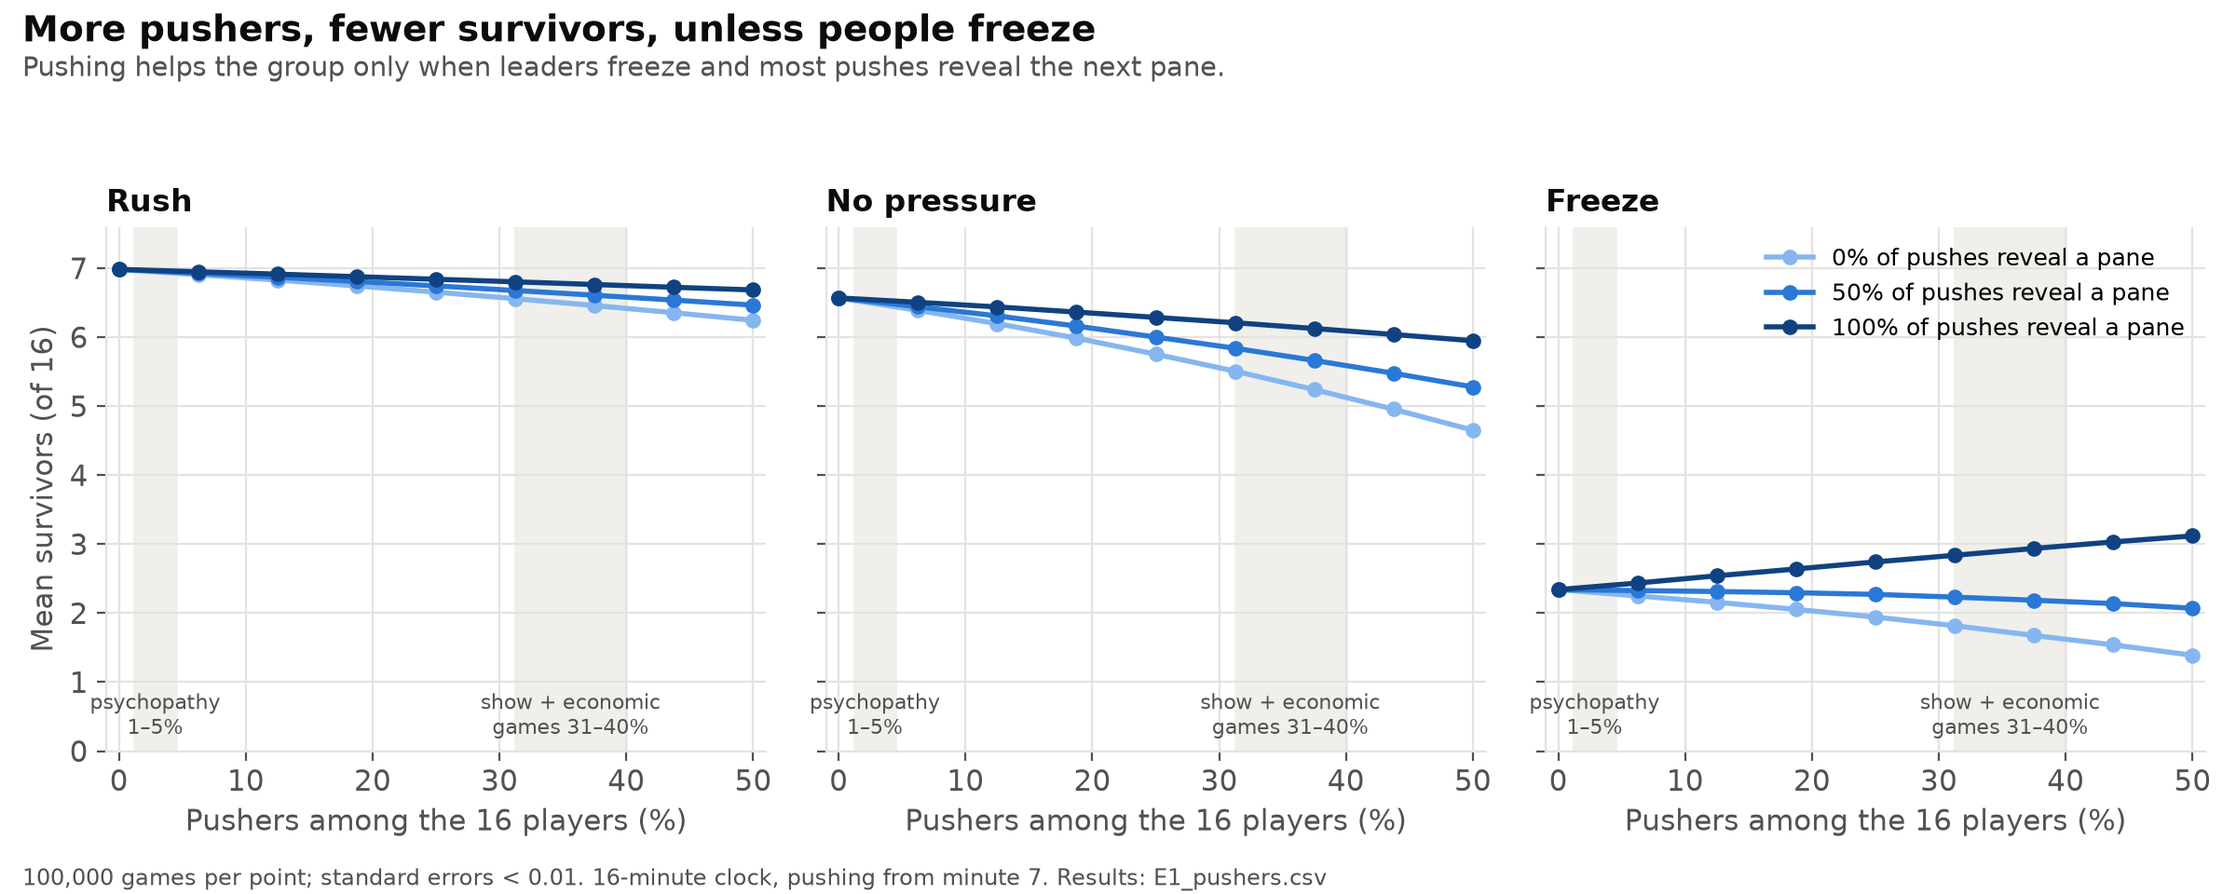
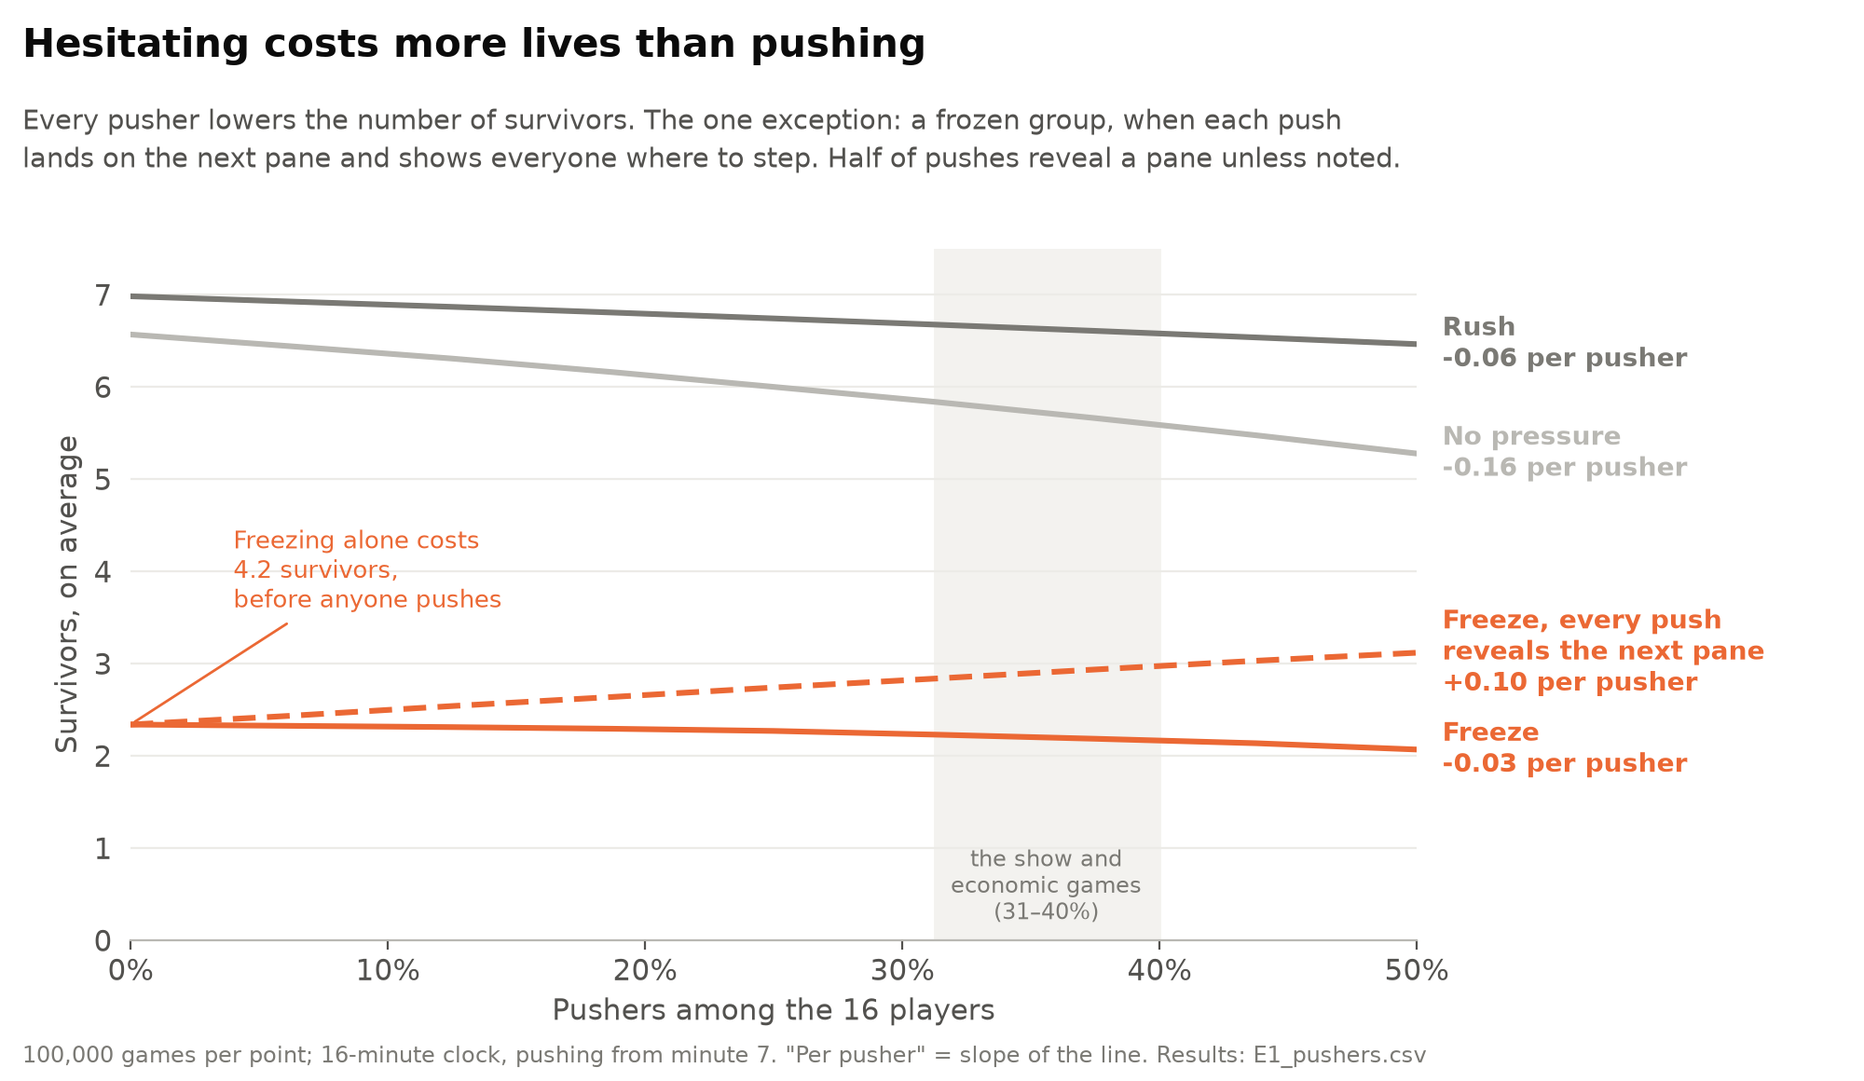
Figures restyled (Storytelling with Data): takeaway titles, gray context, direct labels, annotations; new fig 6 survivor distribution

diff --git a/src/glass_bridge/figures.py b/src/glass_bridge/figures.py
@@ -1,6 +1,10 @@
 """Article figures from the saved sweep results (results/*.csv). Run:
 
     python -m glass_bridge.figures            # writes figures/*.png
+
+Style follows *Storytelling with Data* (Knaflic): the title states the takeaway, context is
+gray, one accent color carries the story, lines are labeled directly instead of with legends,
+and the key point is annotated on the chart.
 """
 
 from __future__ import annotations
@@ -17,164 +21,272 @@ from matplotlib.colors import LinearSegmentedColormap, TwoSlopeNorm
 
 from . import exact
 
-# Reference palette (light mode; Medium pages are white)
-SURFACE, INK, INK_2, GRID = "#ffffff", "#0b0b0b", "#52514e", "#e4e3df"
-BLUE, ORANGE, AQUA, RED, NEUTRAL = "#2a78d6", "#eb6834", "#1baf7a", "#e34948", "#f0efec"
-BLUE_RAMP = {0.0: "#86b6ef", 0.5: "#2a78d6", 1.0: "#104281"}   # ordinal: pane contact 0 / 50 / 100%
-PRESSURE = {-1.5: ("Rush", AQUA), 0.0: ("No pressure", BLUE), 1.5: ("Freeze", ORANGE)}
+# Reference palette, light mode (Medium pages are white). Gray = context; orange = hesitation
+# (the story); blue = what helps.
+SURFACE, INK, INK_2, GRID = "#ffffff", "#0b0b0b", "#52514e", "#ecebe7"
+GRAY, GRAY_LIGHT, BAND = "#7a7974", "#b9b8b3", "#f3f2ef"
+ORANGE, BLUE, RED, NEUTRAL = "#eb6834", "#2a78d6", "#e34948", "#f0efec"
+FREEZE, NONE, RUSH = 1.5, 0.0, -1.5
+PRESSURE = {RUSH: "Rush", NONE: "No pressure", FREEZE: "Freeze"}
 N_PLAYERS = 16
+SHOW_CLOCK = 960.0
 
 plt.rcParams.update({
     "figure.facecolor": SURFACE, "axes.facecolor": SURFACE, "savefig.facecolor": SURFACE,
-    "font.size": 11, "axes.edgecolor": GRID, "axes.labelcolor": INK_2, "axes.titlesize": 12,
+    "font.size": 11, "axes.edgecolor": GRAY_LIGHT, "axes.labelcolor": INK_2, "axes.titlesize": 12,
     "axes.titleweight": "bold", "axes.titlecolor": INK, "xtick.color": INK_2, "ytick.color": INK_2,
-    "axes.grid": True, "grid.color": GRID, "grid.linewidth": 0.8, "axes.axisbelow": True,
-    "axes.spines.top": False, "axes.spines.right": False, "legend.frameon": False,
-    "lines.linewidth": 2.0, "lines.markersize": 5,
+    "axes.grid": True, "axes.grid.axis": "y", "grid.color": GRID, "grid.linewidth": 0.8,
+    "axes.axisbelow": True, "axes.spines.top": False, "axes.spines.right": False,
+    "axes.spines.left": False, "ytick.left": False, "legend.frameon": False, "lines.linewidth": 2.2,
 })
 
+
+# ---- Data -----------------------------------------------------------------------------------
 
 def load(name: str, results: Path) -> list[dict]:
     with open(results / f"{name}.csv", encoding="utf-8") as f:
         return [{k: (v if k == "delay" else float(v)) for k, v in row.items()} for row in csv.DictReader(f)]
 
 
-def pick(rows: list[dict], **where) -> list[dict]:
-    return [r for r in rows if all(r[k] == v for k, v in where.items())]
-
-
 def one(rows: list[dict], **where) -> dict:
-    (row,) = pick(rows, **where)
+    (row,) = [r for r in rows if all(r[k] == v for k, v in where.items())]
     return row
 
 
-def titled(fig, title: str, subtitle: str) -> None:
-    fig.suptitle(title, x=0.01, y=0.985, ha="left", fontsize=14, fontweight="bold", color=INK)
-    fig.text(0.01, 0.915, subtitle, ha="left", fontsize=10.5, color=INK_2)
+def cost_per_pusher(rows: list[dict], **where) -> float:
+    """Slope of mean survivors vs number of pushers (0-8): survivors gained per extra pusher."""
+    n = np.arange(9)
+    return float(np.polyfit(n, [one(rows, n_pushers=k, **where)["mean_survivors"] for k in n], 1)[0])
 
 
-def source(fig, text: str) -> None:
-    fig.text(0.01, 0.01, text, ha="left", fontsize=8.5, color=INK_2)
+# ---- Layout helpers -------------------------------------------------------------------------
 
+def headline(fig, title: str, subtitle: str, source: str) -> None:
+    fig.text(0.012, 0.975, title, ha="left", va="top", fontsize=15, fontweight="bold", color=INK)
+    fig.text(0.012, 0.905, subtitle, ha="left", va="top", fontsize=10.5, color=INK_2, linespacing=1.4)
+    fig.text(0.012, 0.012, source, ha="left", va="bottom", fontsize=8.5, color=GRAY)
+
+
+def end_labels(ax, items: list[tuple[float, float, str, str]], min_gap: float, dx: float) -> None:
+    """Label lines at their right end, nudging labels apart vertically. items: (x, y, text, color)."""
+    items = sorted(items, key=lambda it: it[1])
+    ys = [it[1] for it in items]
+    for i in range(1, len(ys)):
+        ys[i] = max(ys[i], ys[i - 1] + min_gap)
+    for (x, _, text, color), y in zip(items, ys):
+        ax.text(x + dx, y, text, color=color, va="center", ha="left", fontsize=10, fontweight="bold",
+                clip_on=False)
+
+
+def pct_axis(ax) -> None:
+    ax.set_xlim(0, 50)
+    ax.set_xticks([0, 10, 20, 30, 40, 50], ["0%", "10%", "20%", "30%", "40%", "50%"])
+
+
+# ---- Figures --------------------------------------------------------------------------------
 
 def fig_baseline(results: Path):
     r = load("E0_baseline", results)[0]
     pos = np.arange(1, N_PLAYERS + 1)
     sim = np.array([r[f"survival_pos_{k}"] for k in pos]) * 100
-    fig, ax = plt.subplots(figsize=(9, 5))
-    ax.bar(pos, sim, width=0.7, color=BLUE, label=f"Simulated ({int(r['games']):,} games)")
-    ax.scatter(pos, exact.survival_by_position() * 100, marker="_", s=260, linewidths=2.2, color=INK,
-               label="Exact odds", zorder=3)
+    fig, ax = plt.subplots(figsize=(10, 5.4))
+    ax.bar(pos, sim, width=0.7, color=BLUE)
+    ax.scatter(pos, exact.survival_by_position() * 100, marker="_", s=300, linewidths=2.4, color=INK, zorder=3)
+    ax.annotate("— exact odds", (16.45, 100), xytext=(0, 0), textcoords="offset points", va="center",
+                fontsize=10, color=INK, fontweight="bold", annotation_clip=False)
+    ax.annotate("simulated", (16.45, 90), va="center", fontsize=10, color=BLUE, fontweight="bold",
+                annotation_clip=False)
     ax.set_xticks(pos)
-    ax.set_xlabel("Position in the queue (1 = first to cross)")
-    ax.set_ylabel("Chance of surviving (%)")
-    ax.set_ylim(0, 105)
-    ax.legend(loc="upper left")
-    titled(fig, "Ideal play: the simulator matches the math",
-           f"No clock, no pushing. Mean survivors {r['mean_survivors']:.2f} ± {r['se']:.2f} vs exactly 7.00.")
-    source(fig, "18 steps, 16 players. Exact odds: binomial / Markov chain (Tijms). Results: E0_baseline.csv")
-    fig.tight_layout(rect=(0, 0.03, 1, 0.9))
-    fig.subplots_adjust(top=0.86)
+    ax.set_xlabel("Position in the queue (1 = first to step onto the bridge)")
+    ax.set_ylabel("Chance of surviving")
+    ax.set_yticks([0, 25, 50, 75, 100], ["0%", "25%", "50%", "75%", "100%"])
+    ax.set_xlim(0.4, 16.6)
+    headline(fig, "The simulator matches the math",
+             f"With ideal play (no clock, no pushing), {r['mean_survivors']:.2f} of 16 players survive on average; "
+             "the exact answer is 7.\nYour odds depend almost entirely on where you stand in the queue.",
+             f"{int(r['games']):,} simulated games. Exact odds: binomial / Markov chain (Tijms). "
+             "Results: E0_baseline.csv")
+    fig.subplots_adjust(left=0.08, right=0.88, top=0.78, bottom=0.14)
     return fig
 
 
 def fig_pushers(results: Path):
     rows = load("E1_pushers", results)
-    n = np.arange(0, 9)
-    fig, axes = plt.subplots(1, 3, figsize=(12, 4.8), sharey=True)
-    for ax, (beta, (label, _)) in zip(axes, PRESSURE.items()):
-        ax.axvspan(31.25, 40, color=NEUTRAL, zorder=0)
-        ax.axvspan(1.2, 4.5, color=NEUTRAL, zorder=0)
-        for c, color in BLUE_RAMP.items():
-            y = [one(rows, beta=beta, p_contact=c, n_pushers=k)["mean_survivors"] for k in n]
-            ax.plot(n / N_PLAYERS * 100, y, "-o", color=color, label=f"{c:.0%} of pushes reveal a pane")
-        ax.set_title(label, loc="left")
-        ax.set_xlabel("Pushers among the 16 players (%)")
-        ax.set_ylim(0, 7.6)
-        ax.set_xlim(-1, 51)
-    axes[0].set_ylabel("Mean survivors (of 16)")
-    for ax in axes:
-        ax.text(2.85, 0.25, "psychopathy\n1–5%", ha="center", fontsize=8, color=INK_2)
-        ax.text(35.6, 0.25, "show + economic\ngames 31–40%", ha="center", fontsize=8, color=INK_2)
-    axes[2].legend(loc="upper right", fontsize=9)
-    titled(fig, "More pushers, fewer survivors, unless people freeze",
-           "Pushing helps the group only when leaders freeze and most pushes reveal the next pane.")
-    source(fig, "100,000 games per point; standard errors < 0.01. 16-minute clock, pushing from minute 7. "
-                "Results: E1_pushers.csv")
-    fig.tight_layout(rect=(0, 0.03, 1, 0.9))
+    n = np.arange(9)
+    x = n / N_PLAYERS * 100
+    lines = [  # (pressure, contact, color, style, label)
+        (RUSH, 0.5, GRAY, "-", "Rush"),
+        (NONE, 0.5, GRAY_LIGHT, "-", "No pressure"),
+        (FREEZE, 0.5, ORANGE, "-", "Freeze"),
+        (FREEZE, 1.0, ORANGE, (0, (4, 2)), "Freeze, every push\nreveals the next pane"),
+    ]
+    fig, ax = plt.subplots(figsize=(10, 5.8))
+    ax.axvspan(31.25, 40, color=BAND, zorder=0)
+    ax.text(35.6, 0.15, "the show and\neconomic games\n(31–40%)", ha="center", va="bottom", fontsize=8.5, color=GRAY)
+    labels = []
+    for beta, c, color, style, label in lines:
+        y = [one(rows, beta=beta, p_contact=c, n_pushers=k)["mean_survivors"] for k in n]
+        ax.plot(x, y, color=color, linestyle=style)
+        slope = cost_per_pusher(rows, beta=beta, p_contact=c)
+        labels.append((x[-1], y[-1], f"{label}\n{slope:+.2f} per pusher", color))
+    end_labels(ax, labels, min_gap=0.85, dx=1.0)
+    drop = (one(rows, beta=NONE, p_contact=0.5, n_pushers=0)["mean_survivors"]
+            - one(rows, beta=FREEZE, p_contact=0.5, n_pushers=0)["mean_survivors"])
+    ax.annotate(f"Freezing alone costs\n{drop:.1f} survivors,\nbefore anyone pushes",
+                xy=(0, one(rows, beta=FREEZE, p_contact=0.5, n_pushers=0)["mean_survivors"]),
+                xytext=(4, 4.0), fontsize=9.5, color=ORANGE, va="center",
+                arrowprops=dict(arrowstyle="-", color=ORANGE, lw=1))
+    pct_axis(ax)
+    ax.set_ylim(0, 7.5)
+    ax.set_xlabel("Pushers among the 16 players")
+    ax.set_ylabel("Survivors, on average")
+    headline(fig, "Hesitating costs more lives than pushing",
+             "Every pusher lowers the number of survivors. The one exception: a frozen group, when each push\n"
+             "lands on the next pane and shows everyone where to step. Half of pushes reveal a pane unless noted.",
+             "100,000 games per point; 16-minute clock, pushing from minute 7. "
+             "\"Per pusher\" = slope of the line. Results: E1_pushers.csv")
+    fig.subplots_adjust(left=0.07, right=0.76, top=0.77, bottom=0.13)
     return fig
 
 
 def fig_breakeven(results: Path):
     rows = load("E1_pushers", results)
     n, contact = np.arange(1, 9), np.round(np.arange(0, 1.01, 0.1), 1)
-    fig, axes = plt.subplots(1, 3, figsize=(12, 4.6), sharey=True)
+    x, y = n / N_PLAYERS * 100, contact * 100
+    fig, axes = plt.subplots(1, 3, figsize=(12, 5), sharey=True)
     cmap = LinearSegmentedColormap.from_list("div", [RED, NEUTRAL, BLUE])
     norm = TwoSlopeNorm(vcenter=0, vmin=-2.0, vmax=2.0)
-    for ax, (beta, (label, _)) in zip(axes, PRESSURE.items()):
+    for ax, beta in zip(axes, (RUSH, NONE, FREEZE)):
         base = one(rows, beta=beta, n_pushers=0, p_contact=0.0)["mean_survivors"]
         z = np.array([[one(rows, beta=beta, n_pushers=k, p_contact=c)["mean_survivors"] - base for k in n]
                       for c in contact])
-        im = ax.pcolormesh(n / N_PLAYERS * 100, contact * 100, z, cmap=cmap, norm=norm, shading="nearest",
-                           edgecolors=SURFACE, linewidth=1.5)
-        if z.min() < 0 < z.max():
-            ax.contour(n / N_PLAYERS * 100, contact * 100, z, levels=[0], colors=INK, linewidths=1.5)
-        ax.set_title(label, loc="left")
-        ax.set_xlabel("Pushers among the 16 players (%)")
+        im = ax.pcolormesh(x, y, z, cmap=cmap, norm=norm, shading="nearest", edgecolors=SURFACE, linewidth=1.5)
+        outline_positive(ax, x, y, z)
+        ax.set_title(PRESSURE[beta], loc="left", color=ORANGE if beta == FREEZE else INK)
+        ax.set_xticks([10, 20, 30, 40, 50], ["10%", "20%", "30%", "40%", "50%"])
+        ax.set_xlabel("Pushers among the 16 players")
         ax.grid(False)
-    axes[0].set_ylabel("Pushes that reveal the next pane (%)")
-    cb = fig.colorbar(im, cax=fig.add_axes((0.885, 0.17, 0.015, 0.63)))
-    cb.set_label("Survivors gained (+) or lost (−) vs no pushers", color=INK_2)
+        ax.tick_params(left=False, bottom=False)
+        if (z > 0).any():
+            ax.text(x.mean(), 108, "pushing helps here", ha="center", va="bottom", fontsize=9.5,
+                    color=BLUE, fontweight="bold", clip_on=False)
+    axes[0].set_yticks([0, 20, 40, 60, 80, 100], ["0%", "20%", "40%", "60%", "80%", "100%"])
+    axes[0].set_ylabel("Pushes that reveal the next pane")
+    cb = fig.colorbar(im, cax=fig.add_axes((0.905, 0.16, 0.012, 0.6)))
+    cb.set_label("Survivors gained (+) or lost (−)\nvs the same group with no pushers", color=INK_2)
     cb.outline.set_visible(False)
-    titled(fig, "When does pushing pay off?",
-           "Only under freeze, and only when roughly 60–70% or more of pushes reveal a pane (blue, above the black line).")
-    source(fig, "Change in mean survivors vs the same scenario with no pushers; 100,000 games per cell, "
-                "same bridges in every cell. Results: E1_pushers.csv")
-    fig.subplots_adjust(left=0.06, right=0.865, bottom=0.17, top=0.8, wspace=0.08)
+    headline(fig, "When does pushing pay off?",
+             "Only when the group is frozen and most pushes (about 60–70% or more) reveal the next pane.\n"
+             "Everywhere else, every extra pusher costs lives.",
+             "Change in mean survivors vs no pushers; 100,000 games per cell, same bridges in every cell. "
+             "Results: E1_pushers.csv")
+    fig.subplots_adjust(left=0.07, right=0.89, bottom=0.16, top=0.72, wspace=0.08)
     return fig
+
+
+def outline_positive(ax, x, y, z) -> None:
+    """Draw the outer border of the cells where z > 0."""
+    pos = z > 0
+    hx, hy = (x[1] - x[0]) / 2, (y[1] - y[0]) / 2
+    rows, cols = pos.shape
+    inside = lambda i, j: 0 <= i < rows and 0 <= j < cols and pos[i, j]
+    for i in range(rows):
+        for j in range(cols):
+            if not pos[i, j]:
+                continue
+            cx, cy = x[j], y[i]
+            for di, dj, seg in ((1, 0, ((cx - hx, cx + hx), (cy + hy, cy + hy))),
+                                (-1, 0, ((cx - hx, cx + hx), (cy - hy, cy - hy))),
+                                (0, 1, ((cx + hx, cx + hx), (cy - hy, cy + hy))),
+                                (0, -1, ((cx - hx, cx - hx), (cy - hy, cy + hy)))):
+                if not inside(i + di, j + dj):
+                    ax.plot(*seg, color=BLUE, linewidth=2.5, solid_capstyle="projecting", clip_on=False)
 
 
 def fig_pusher_gain(results: Path):
     rows = load("E1_pushers", results)
     n = np.arange(1, 9)
-    fig, axes = plt.subplots(1, 3, figsize=(12, 4.6), sharey=True)
-    for ax, (beta, (label, _)) in zip(axes, PRESSURE.items()):
+    x = n / N_PLAYERS * 100
+    fig, axes = plt.subplots(1, 3, figsize=(12, 5), sharey=True)
+    for ax, beta in zip(axes, (RUSH, NONE, FREEZE)):
         sel = [one(rows, beta=beta, n_pushers=k, p_contact=0.5) for k in n]
-        x = n / N_PLAYERS * 100
-        ax.plot(x, [r["nonpusher_survival"] * 100 for r in sel], "-o", color=BLUE, label="Everyone else")
-        ax.plot(x, [r["pusher_survival"] * 100 for r in sel], "-o", color=ORANGE, label="Pushers")
-        ax.set_title(label, loc="left")
-        ax.set_xlabel("Pushers among the 16 players (%)")
+        others = [r["nonpusher_survival"] * 100 for r in sel]
+        pushers = [r["pusher_survival"] * 100 for r in sel]
+        ax.plot(x, others, color=GRAY_LIGHT)
+        ax.plot(x, pushers, color=ORANGE)
+        ax.set_title(PRESSURE[beta], loc="left")
+        ax.set_xlabel("Pushers among the 16 players")
+        ax.set_xticks([10, 30, 50], ["10%", "30%", "50%"])
+        ax.set_xlim(6, 50)
         ax.set_ylim(0, 50)
-    axes[0].set_ylabel("Chance of surviving (%)")
-    axes[2].legend(loc="upper right")
-    titled(fig, "Pushing doesn't save the pusher",
-           "Pushers survive less often than everyone else, under every kind of pressure.")
-    source(fig, "Half of pushes reveal the next pane. 100,000 games per point. Results: E1_pushers.csv")
-    fig.tight_layout(rect=(0, 0.03, 1, 0.9))
+        if beta == RUSH:
+            ax.text(x[0], others[0] + 2.5, "everyone else", color=GRAY, fontsize=10, fontweight="bold")
+            ax.text(x[0], pushers[0] - 4.5, "pushers", color=ORANGE, fontsize=10, fontweight="bold")
+    axes[0].set_yticks([0, 10, 20, 30, 40, 50], ["0%", "10%", "20%", "30%", "40%", "50%"])
+    axes[0].set_ylabel("Chance of surviving")
+    headline(fig, "Pushing doesn't save the pusher",
+             "Pushers survive less often than everyone else, under every kind of pressure.",
+             "Half of pushes reveal the next pane. 100,000 games per point. Results: E1_pushers.csv")
+    fig.subplots_adjust(left=0.07, right=0.98, bottom=0.15, top=0.78, wspace=0.08)
     return fig
 
 
 def fig_clock(results: Path):
     rows = load("E3_clock", results)
-    clocks = sorted({r["clock"] for r in rows})
-    fig, axes = plt.subplots(1, 2, figsize=(11, 4.8), sharey=True)
+    clocks = np.array(sorted({r["clock"] for r in rows}))
+    style = {RUSH: BLUE, NONE: GRAY_LIGHT, FREEZE: ORANGE}
+    fig, axes = plt.subplots(1, 2, figsize=(12, 5.4), sharey=True)
     for ax, pushers in zip(axes, (0, 5)):
-        ax.axvline(16, color=INK_2, linewidth=1, linestyle=(0, (3, 3)))
-        ax.text(15.85, 3.9, "the show:\n16 min", fontsize=8.5, color=INK_2, ha="right", va="center")
-        for beta, (label, color) in PRESSURE.items():
+        ax.axvline(16, color=GRAY_LIGHT, linewidth=1, linestyle=(0, (3, 3)))
+        ax.text(16.15, 0.2, "the show:\n16 minutes", fontsize=8.5, color=GRAY, va="bottom")
+        labels = []
+        for beta, color in style.items():
             y = [one(rows, beta=beta, clock=c, n_pushers=pushers)["mean_survivors"] for c in clocks]
-            ax.plot(np.array(clocks) / 60, y, "-o", color=color, label=label)
-        ax.set_title("No pushers" if pushers == 0 else "5 pushers (31%)", loc="left")
+            ax.plot(clocks / 60, y, color=color)
+            labels.append((clocks[-1] / 60, y[-1], PRESSURE[beta], color if color != GRAY_LIGHT else GRAY))
+        end_labels(ax, labels, min_gap=0.45, dx=0.3)
+        r = one(rows, beta=FREEZE, clock=SHOW_CLOCK, n_pushers=pushers)
+        ax.plot([16], [r["mean_survivors"]], "o", color=ORANGE, markersize=7)
+        ax.annotate(f"clock runs out in\n{r['p_clock_ran_out']:.0%} of games",
+                    (16, r["mean_survivors"]), xytext=(17.2, 1.2), fontsize=9.5, color=ORANGE,
+                    arrowprops=dict(arrowstyle="-", color=ORANGE, lw=1))
+        ax.set_title("No pushers" if pushers == 0 else "5 pushers (31%, like the show)", loc="left")
         ax.set_xlabel("Time limit (minutes)")
-        ax.set_xlim(9.5, 25.5)
-        ax.set_ylim(0, 7.6)
-    axes[0].set_ylabel("Mean survivors (of 16)")
-    axes[0].legend(loc="lower right")
-    titled(fig, "The clock is the real killer when people freeze",
-           "With time to spare almost nobody freezes to death; at 10 minutes, freezing wipes everyone out.")
-    source(fig, "100,000 games per point. Half of pushes reveal a pane; pushing from minute 7. Results: E3_clock.csv")
-    fig.tight_layout(rect=(0, 0.03, 1, 0.9))
+        ax.set_xlim(10, 25)
+        ax.set_ylim(0, 7.5)
+    axes[0].set_ylabel("Survivors, on average")
+    rush = one(rows, beta=RUSH, clock=SHOW_CLOCK, n_pushers=0)
+    headline(fig, "The clock only kills those who hesitate",
+             f"Players who decide quickly beat the clock in {1 - rush['p_clock_ran_out']:.1%} of games and keep "
+             "the math's 7 survivors.\nFrozen players run out of time in most games at the show's 16 minutes.",
+             "100,000 games per point. With pushers, half of pushes reveal a pane; pushing from minute 7. "
+             "Results: E3_clock.csv")
+    fig.subplots_adjust(left=0.06, right=0.9, bottom=0.14, top=0.76, wspace=0.34)
+    return fig
+
+
+def fig_distribution(results: Path):
+    rows = load("E3_clock", results)
+    k = np.arange(N_PLAYERS + 1)
+    fig, axes = plt.subplots(1, 3, figsize=(12, 4.6), sharey=True)
+    for ax, beta in zip(axes, (RUSH, NONE, FREEZE)):
+        r = one(rows, beta=beta, clock=SHOW_CLOCK, n_pushers=0)
+        p = np.array([r[f"p_{i}_survivors"] for i in k]) * 100
+        colors = [ORANGE if (beta == FREEZE and i == 0) else GRAY_LIGHT for i in k]
+        ax.bar(k, p, width=0.75, color=colors)
+        ax.set_title(f"{PRESSURE[beta]}: {r['mean_survivors']:.1f} survivors on average", loc="left",
+                     color=ORANGE if beta == FREEZE else INK)
+        ax.set_xticks([0, 3, 7, 10, 16])
+        ax.set_xlabel("Survivors in one game")
+        if beta == FREEZE:
+            ax.annotate(f"nobody survives\nin {p[0]:.0f}% of games", (0.5, p[0] * 0.95), xytext=(3, p[0] * 0.8),
+                        fontsize=9.5, color=ORANGE, fontweight="bold", va="top")
+    axes[0].set_yticks([0, 20, 40, 60], ["0%", "20%", "40%", "60%"])
+    axes[0].set_ylabel("Share of games")
+    headline(fig, "A frozen group usually loses everyone",
+             "The average hides the spread: freezing doesn't trim the survivors, it wipes out whole games.",
+             "16-minute clock, no pushers. 100,000 games each. Results: E3_clock.csv")
+    fig.subplots_adjust(left=0.07, right=0.98, bottom=0.18, top=0.78, wspace=0.08)
     return fig
 
 
@@ -184,6 +296,7 @@ FIGURES = {
     "fig3_breakeven": fig_breakeven,
     "fig4_pusher_gain": fig_pusher_gain,
     "fig5_clock": fig_clock,
+    "fig6_distribution": fig_distribution,
 }
 
 
